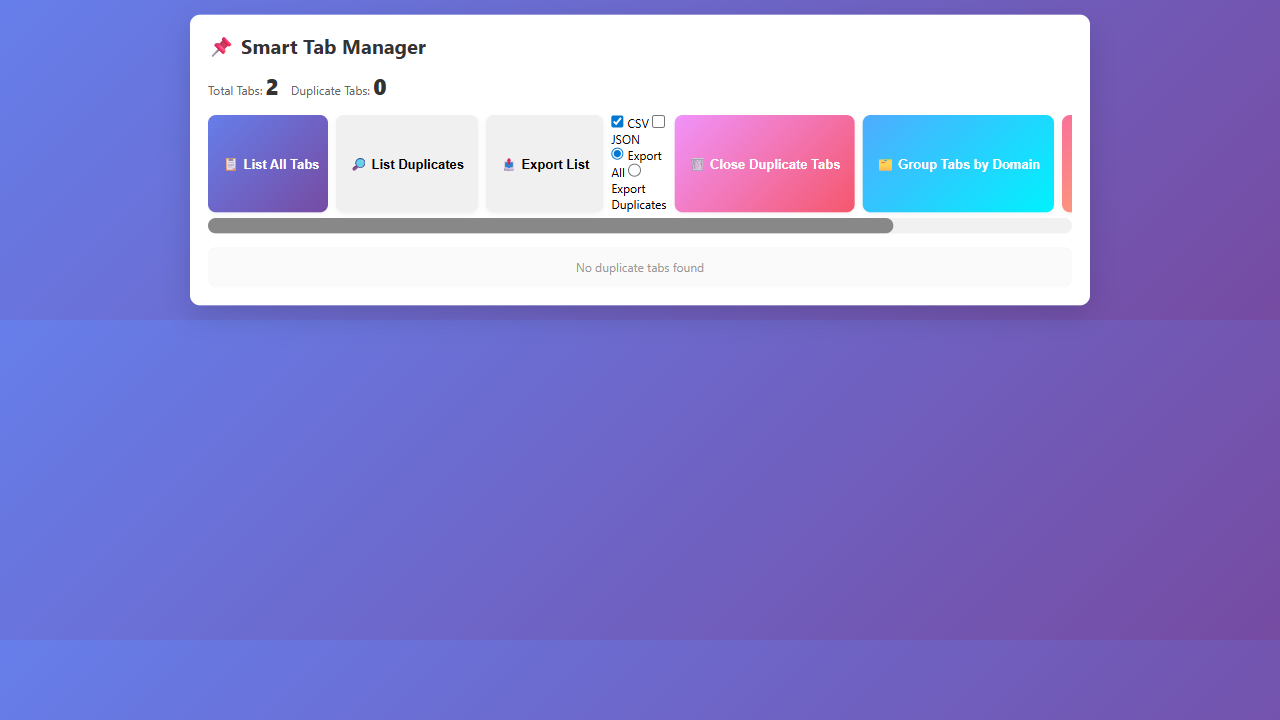
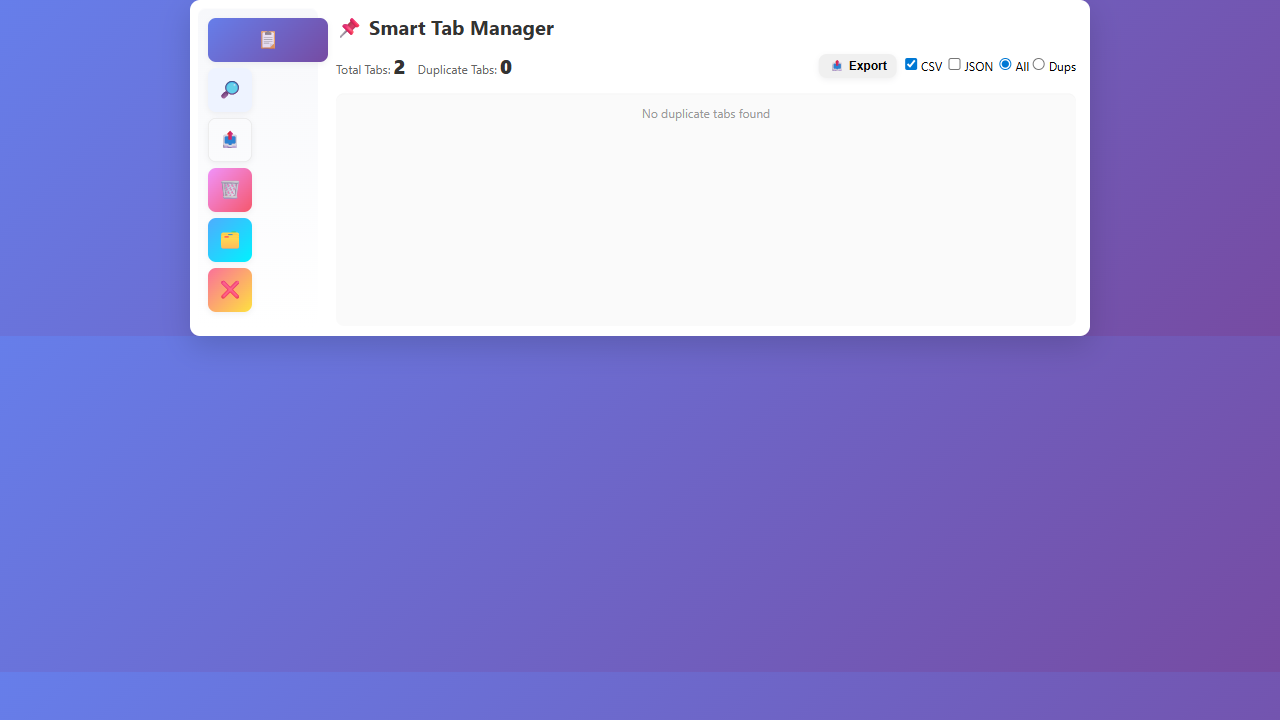
Commit current changes

Changed region(s): [[0.125, 0.0, 0.875, 0.4889], [0.75, 0.0611, 0.8438, 0.1222], [0.6562, 0.0611, 0.7188, 0.1222]]

diff --git a/tmp/popup_dom_snapshot.html b/tmp/popup_dom_snapshot.html
@@ -6,39 +6,47 @@
   </head>
   <body>
     <div class="container">
-      <header>
-        <h1>📌 Smart Tab Manager</h1>
-      </header>
-
-      <div class="stats">
-        <div class="stat-item">
-          <span class="stat-label">Total Tabs:</span>
-          <span class="stat-value" id="totalTabs">2</span>
+      <aside class="side-menu" role="navigation" aria-label="Actions">
+        <div class="actions">
+          <button id="listAllTabs" class="btn btn-primary" title="List all tabs" aria-label="List all tabs"><span class="btn-icon">📋</span></button>
+          <button id="listDuplicateTabs" class="btn btn-secondary" title="List duplicates" aria-label="List duplicates"><span class="btn-icon">🔎</span></button>
+          <button id="exportQuickBtn" class="btn btn-outline" title="Export tabs" aria-label="Export tabs"><span class="btn-icon">📤</span></button>
+          <!-- export controls moved to header/stats to reduce duplication -->
+          <button id="closeDuplicateTabs" class="btn btn-danger" title="Close duplicate tabs" aria-label="Close duplicate tabs"><span class="btn-icon">🗑</span></button>
+          <button id="groupTabsByDomain" class="btn btn-info" title="Group tabs by domain" aria-label="Group tabs by domain"><span class="btn-icon">🗂</span></button>
+          <button id="closeTabsExceptActive" class="btn btn-warning" title="Close other tabs" aria-label="Close other tabs"><span class="btn-icon">❌</span></button>
         </div>
-        <div class="stat-item">
-          <span class="stat-label">Duplicate Tabs:</span>
-          <span class="stat-value" id="duplicateTabs">0</span>
-        </div>
-      </div>
+      </aside>
 
-      <div class="actions">
-        <button id="listAllTabs" class="btn btn-primary">📋 List All Tabs</button>
-        <button id="listDuplicateTabs" class="btn btn-secondary">🔎 List Duplicates</button>
-        <button id="exportListBtn" class="btn btn-outline">📤 Export List</button>
-        <div class="export-controls">
-          <label><input type="checkbox" id="exportCsv" checked="" style=""> CSV</label>
-          <label><input type="checkbox" id="exportJson" style=""> JSON</label>
-          <div class="export-scope">
-            <label><input type="radio" name="exportScope" id="exportScopeAll" value="all" checked="" style=""> Export All</label>
-            <label><input type="radio" name="exportScope" id="exportScopeDuplicates" value="duplicates" style=""> Export Duplicates</label>
+      <section class="content">
+        <header>
+          <h1>📌 Smart Tab Manager</h1>
+        </header>
+
+        <div class="stats">
+          <div class="stat-item">
+            <span class="stat-label">Total Tabs:</span>
+            <span class="stat-value" id="totalTabs">2</span>
+          </div>
+          <div class="stat-item">
+            <span class="stat-label">Duplicate Tabs:</span>
+            <span class="stat-value" id="duplicateTabs">0</span>
+          </div>
+          <div class="stats-right">
+            <button id="exportListBtn" class="btn btn-outline">📤 Export</button>
+            <div class="export-controls">
+              <label><input type="checkbox" id="exportCsv" checked="" style=""> CSV</label>
+              <label><input type="checkbox" id="exportJson" style=""> JSON</label>
+              <div class="export-scope">
+                <label><input type="radio" name="exportScope" id="exportScopeAll" value="all" checked="" style=""> All</label>
+                <label><input type="radio" name="exportScope" id="exportScopeDuplicates" value="duplicates" style=""> Dups</label>
+              </div>
+            </div>
           </div>
         </div>
-        <button id="closeDuplicateTabs" class="btn btn-danger">🗑 Close Duplicate Tabs</button>
-        <button id="groupTabsByDomain" class="btn btn-info">🗂 Group Tabs by Domain</button>
-        <button id="closeTabsExceptActive" class="btn btn-warning">❌ Close Tabs Except Active One</button>
-      </div>
 
-      <div id="tabsList" class="tabs-list show"><p style="text-align: center; color: #999;">No duplicate tabs found</p></div>
+        <div id="tabsList" class="tabs-list show"><p style="text-align: center; color: #999;">No duplicate tabs found</p></div>
+      </section>
     </div>
 
     <script src="utils.js"></script>

diff --git a/popup.html b/popup.html
@@ -12,7 +12,7 @@
         <div class="actions">
           <button id="listAllTabs" class="btn btn-primary" title="List all tabs" aria-label="List all tabs"><span class="btn-icon">📋</span></button>
           <button id="listDuplicateTabs" class="btn btn-secondary" title="List duplicates" aria-label="List duplicates"><span class="btn-icon">🔎</span></button>
-          <button id="exportListBtn" class="btn btn-outline" title="Export tabs" aria-label="Export tabs"><span class="btn-icon">📤</span></button>
+          <button id="exportQuickBtn" class="btn btn-outline" title="Export tabs" aria-label="Export tabs"><span class="btn-icon">📤</span></button>
           <!-- export controls moved to header/stats to reduce duplication -->
           <button id="closeDuplicateTabs" class="btn btn-danger" title="Close duplicate tabs" aria-label="Close duplicate tabs"><span class="btn-icon">🗑</span></button>
           <button id="groupTabsByDomain" class="btn btn-info" title="Group tabs by domain" aria-label="Group tabs by domain"><span class="btn-icon">🗂</span></button>
